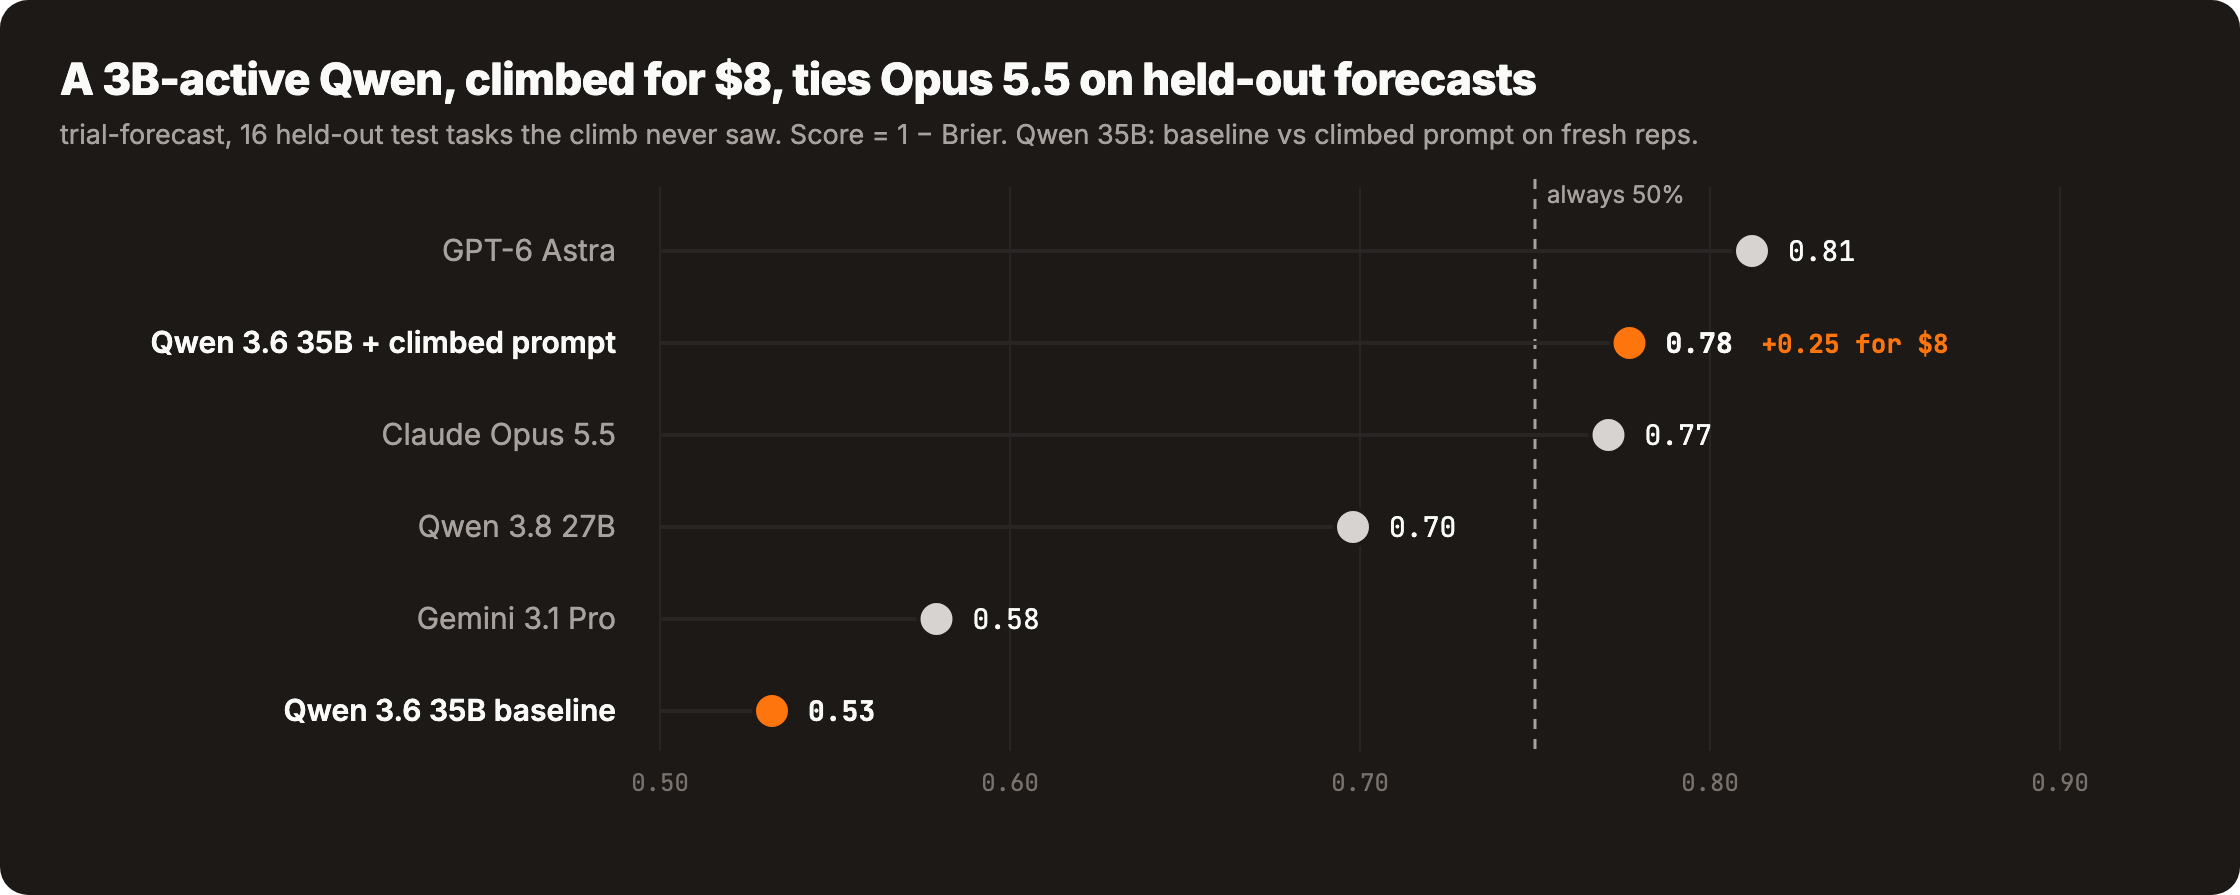
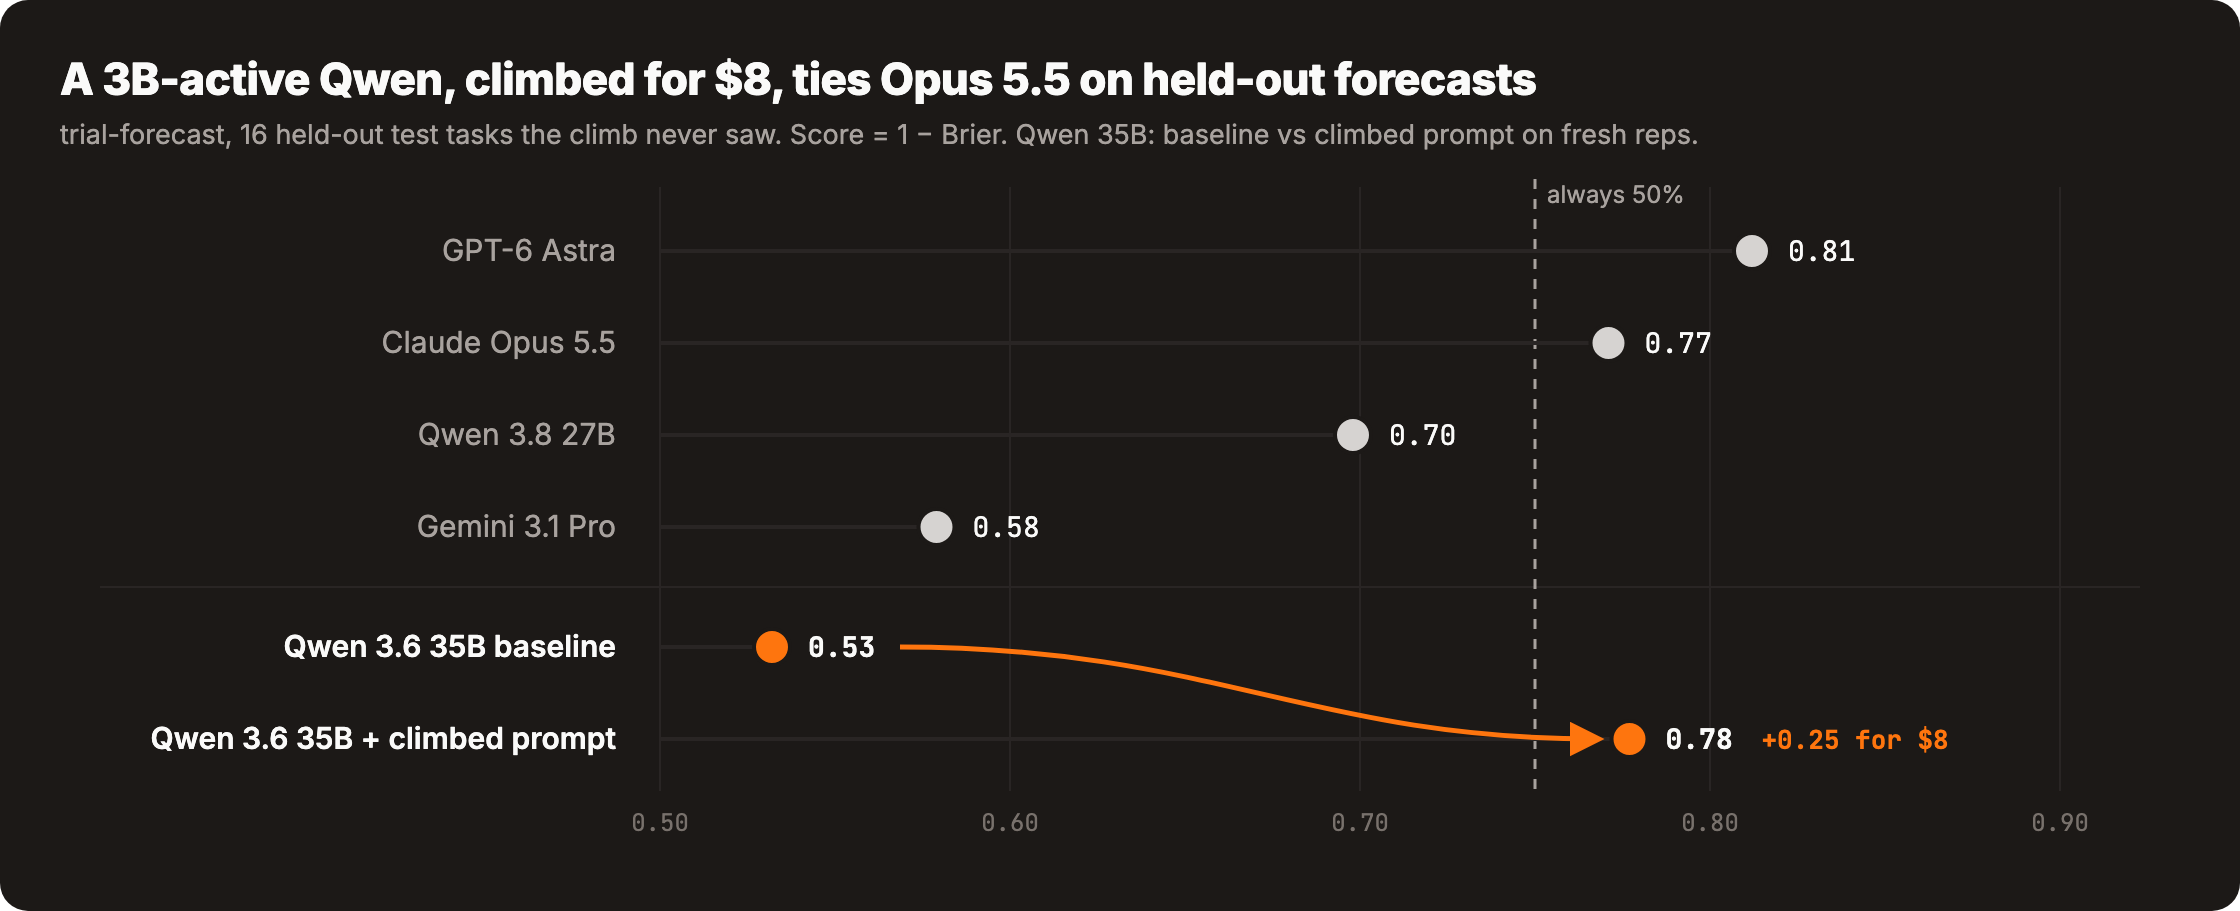
README: comparison table up top, arrow on results chart
Claude-Session: https://claude.ai/code/session_01HSeckEZJSznvkEffHwXvYs

diff --git a/README.md b/README.md
@@ -13,6 +13,19 @@ from the web, not synthesized ones.
 
 Get a Browser Use API key at [Browser Use Cloud](https://cloud.browser-use.com/?utm_campaign=rl-env-use&utm_source=github).
 
+## Browser Use vs vanilla Claude Code
+
+The same mining missions, run by Claude Code (WebSearch + WebFetch) and by Browser Use agents. A fact counts only if its
+quote is found verbatim on the cited page.
+
+| Missions | Claude Code | Browser Use |
+|----------|-------------|-------------|
+| 8 x clinical trial results | 0 of 86 facts verified | **17 verified**, 4 complete cases |
+| 6 x clinical trial results, same model both sides | 0 of 43 | **3 verified**, 2 complete cases |
+| 8 x human genetic variants (UniProt, gnomAD, GTEx) | 6 of 82 | **40 verified** |
+
+Results tables sit behind tabs and search forms that a plain fetch never sees.
+
 ## What it does
 
 - **Mines real cases**: the materials a model gets (a trial protocol, a 10-Q) and the outcome published later
@@ -51,27 +64,8 @@ results were posted since July 2026, after the models' training data. Built for 
 
 A climbed Qwen 3.6 35B-A3B goes from 0.53 to 0.78 on tasks it never trained on (+0.25, 95% CI +0.07 to +0.45), level
 with Opus 5.5. Always answering 50% scores 0.75, so most of the gain is calibration: the model stopped answering 0 or 1.
-
-<p align="center"><img src="static/chart-climb.png" alt="12 prompt edits proposed over 4 rounds, 1 kept" width="100%"></p>
-
-Opus 5.5 proposed 12 edits from failure buckets. One survived the test gate: base-rate priors per question type.
-Each round's failure buckets, edits and full prompts are in [`climb-qwen-35b/`](envs/trial-forecast/climb-qwen-35b).
-
-<p align="center"><img src="static/chart-browsers.png" alt="verified facts: Browser Use 17, 3, 40 vs Claude Code 0, 0, 6" width="100%"></p>
-
-The results tables sit behind tabs and search forms. All 35 tasks rest on data a plain HTTP fetch does not return.
-
-## How it works
-
-The model under test never browses. It reads a case and answers; the grader knows what happened.
-
-<p align="center"><img src="static/case-view.png" alt="one case: the protocol the model reads, the prompt and panel forecasts, the posted outcome" width="100%"></p>
-
-```
-plan ──> mine ──> write ──> verify ──> panel ──> harden ──> climb
-          │                                         │
-          └─ browser agents, one record each        └─ too easy? rewrite harder (max 2 levels)
-```
+The climb kept 1 of 12 proposed edits (base-rate priors per question type); every round is in
+[`climb-qwen-35b/`](envs/trial-forecast/climb-qwen-35b).
 
 ## Manual install
 
@@ -85,11 +79,8 @@ cp .env.example .env && $EDITOR .env    # BROWSER_USE_API_KEY, OPENROUTER_API_KE
 .venv/bin/python -m pytest -q           # offline, ~10 s
 ```
 
-## Design principles
-
-1. **Real outcomes.** A case is materials plus what actually happened.
-2. **Correct by construction.** Code computes derived golds, never the drafting model.
-3. **Hard is measured.** A panel from three labs decides what is too easy.
-4. **A gain counts only on test.** "Within noise, do not merge" is a result.
-
 See [`SKILL.md`](./SKILL.md) for the full workflow and where every file is saved.
+
+## License
+
+MIT, see [LICENSE](LICENSE).
